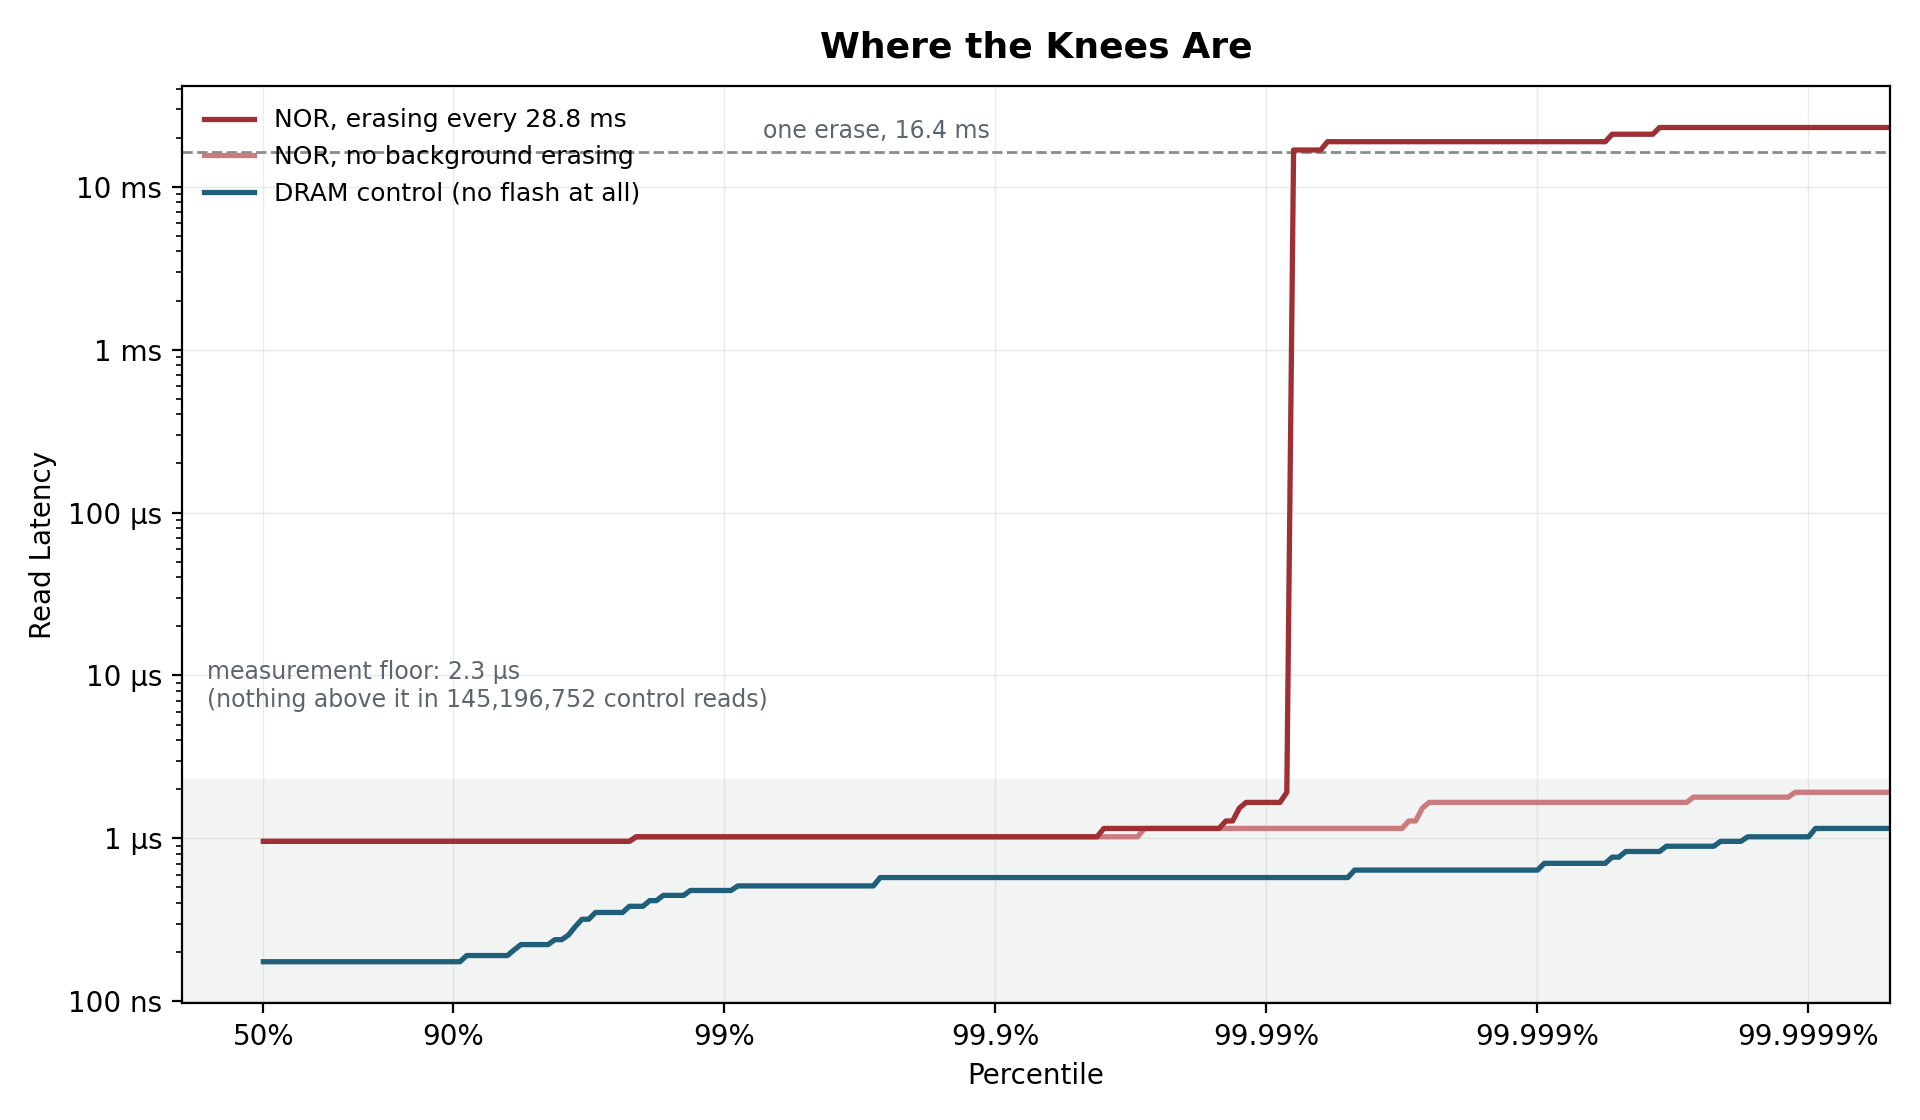
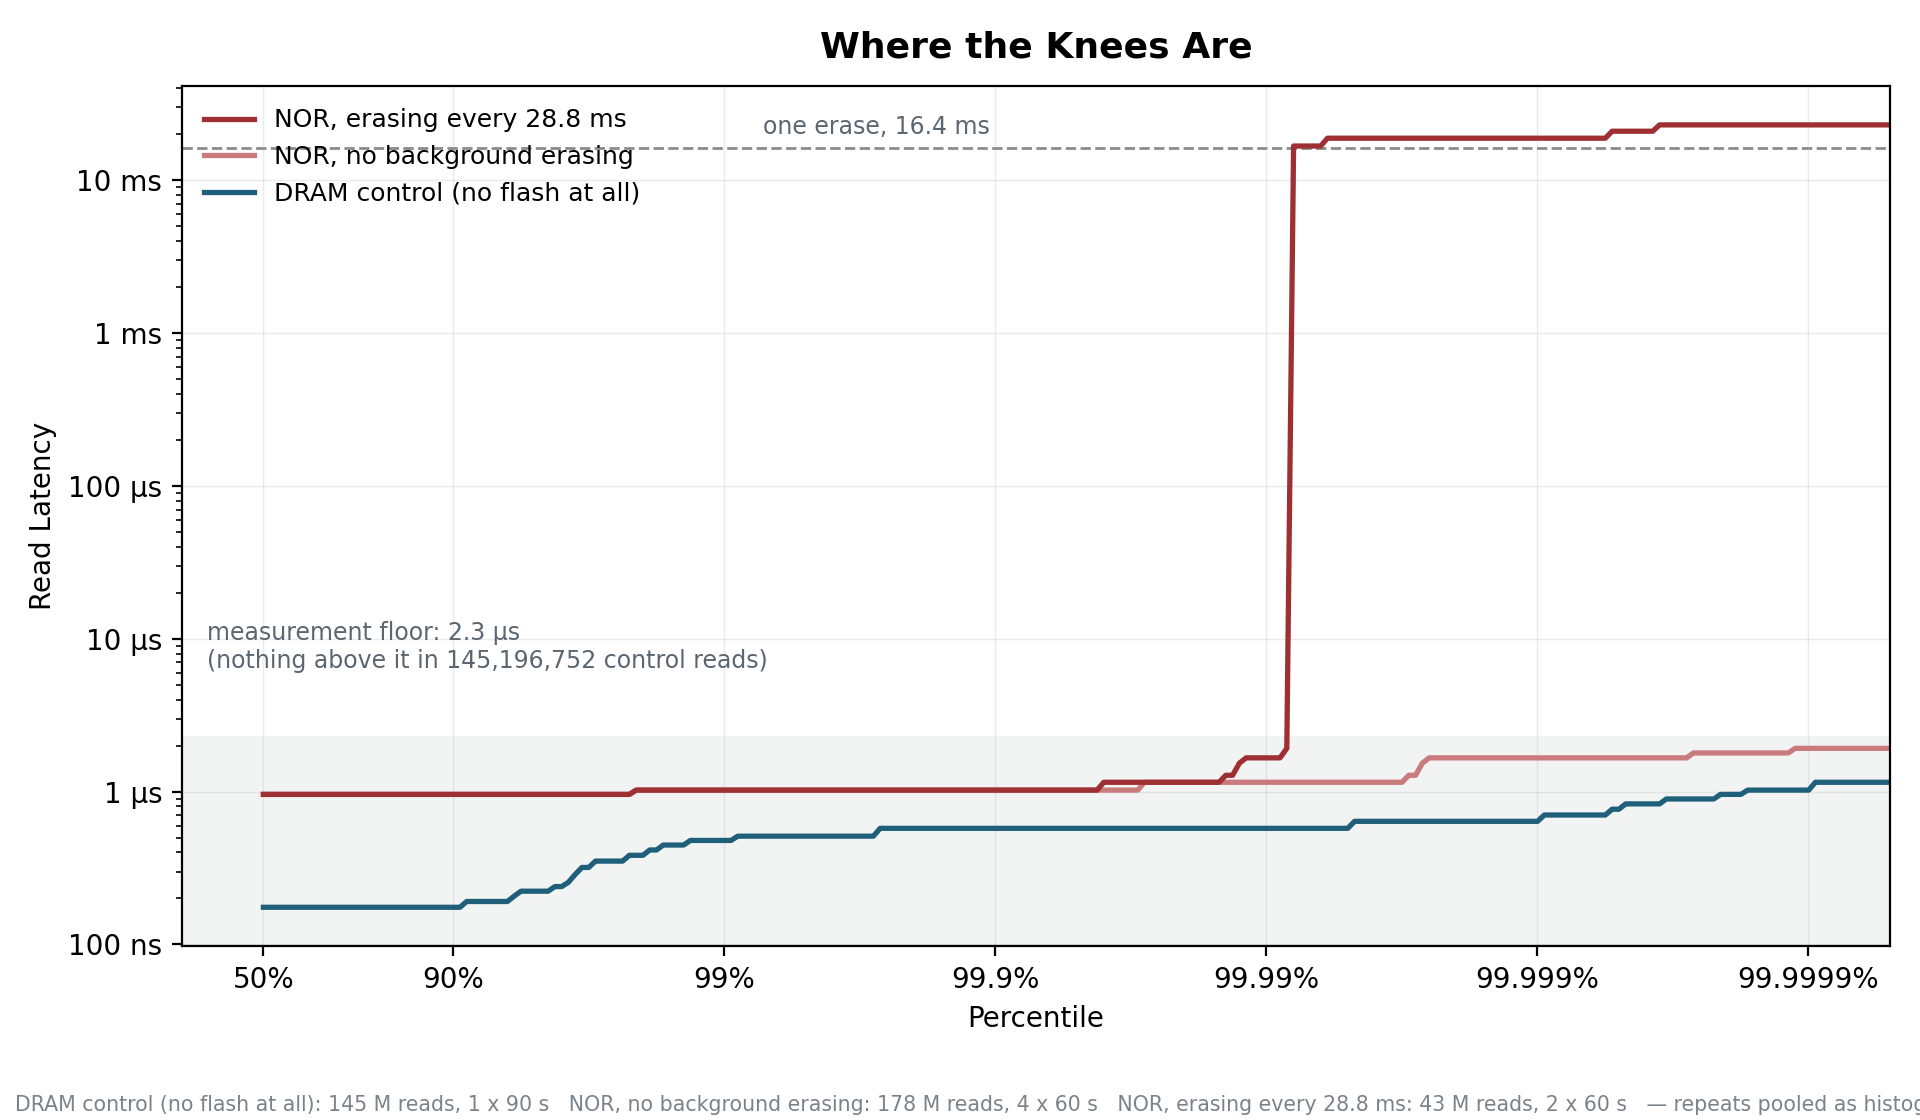
fix: the provenance loop shadowed the rows list
`r` is the module-level list of CSV rows that hist() closes over. Binding it to
a per-condition string inside the loop made the next hist() call index a string.
Renamed to reps.

diff --git a/scripts/plot_selftest.py b/scripts/plot_selftest.py
@@ -696,8 +696,8 @@ if r:
         prov = []
         for cond, _, label in have:
             nn = sum(c for _, c in hist(cond))
-            r = {"engine_off": "4 x 60 s", "erasing": "2 x 60 s"}.get(cond, "1 x 90 s")
-            prov.append(f"{label}: {nn/1e6:.0f} M reads, {r}")
+            reps = {"engine_off": "4 x 60 s", "erasing": "2 x 60 s"}.get(cond, "1 x 90 s")
+            prov.append(f"{label}: {nn/1e6:.0f} M reads, {reps}")
         fig2.tight_layout()
         fig2.text(0.008, 0.008, "   ".join(prov) + "   \u2014 repeats pooled as histograms, not averaged",
                   fontsize=7.4, color="#7A838A")
